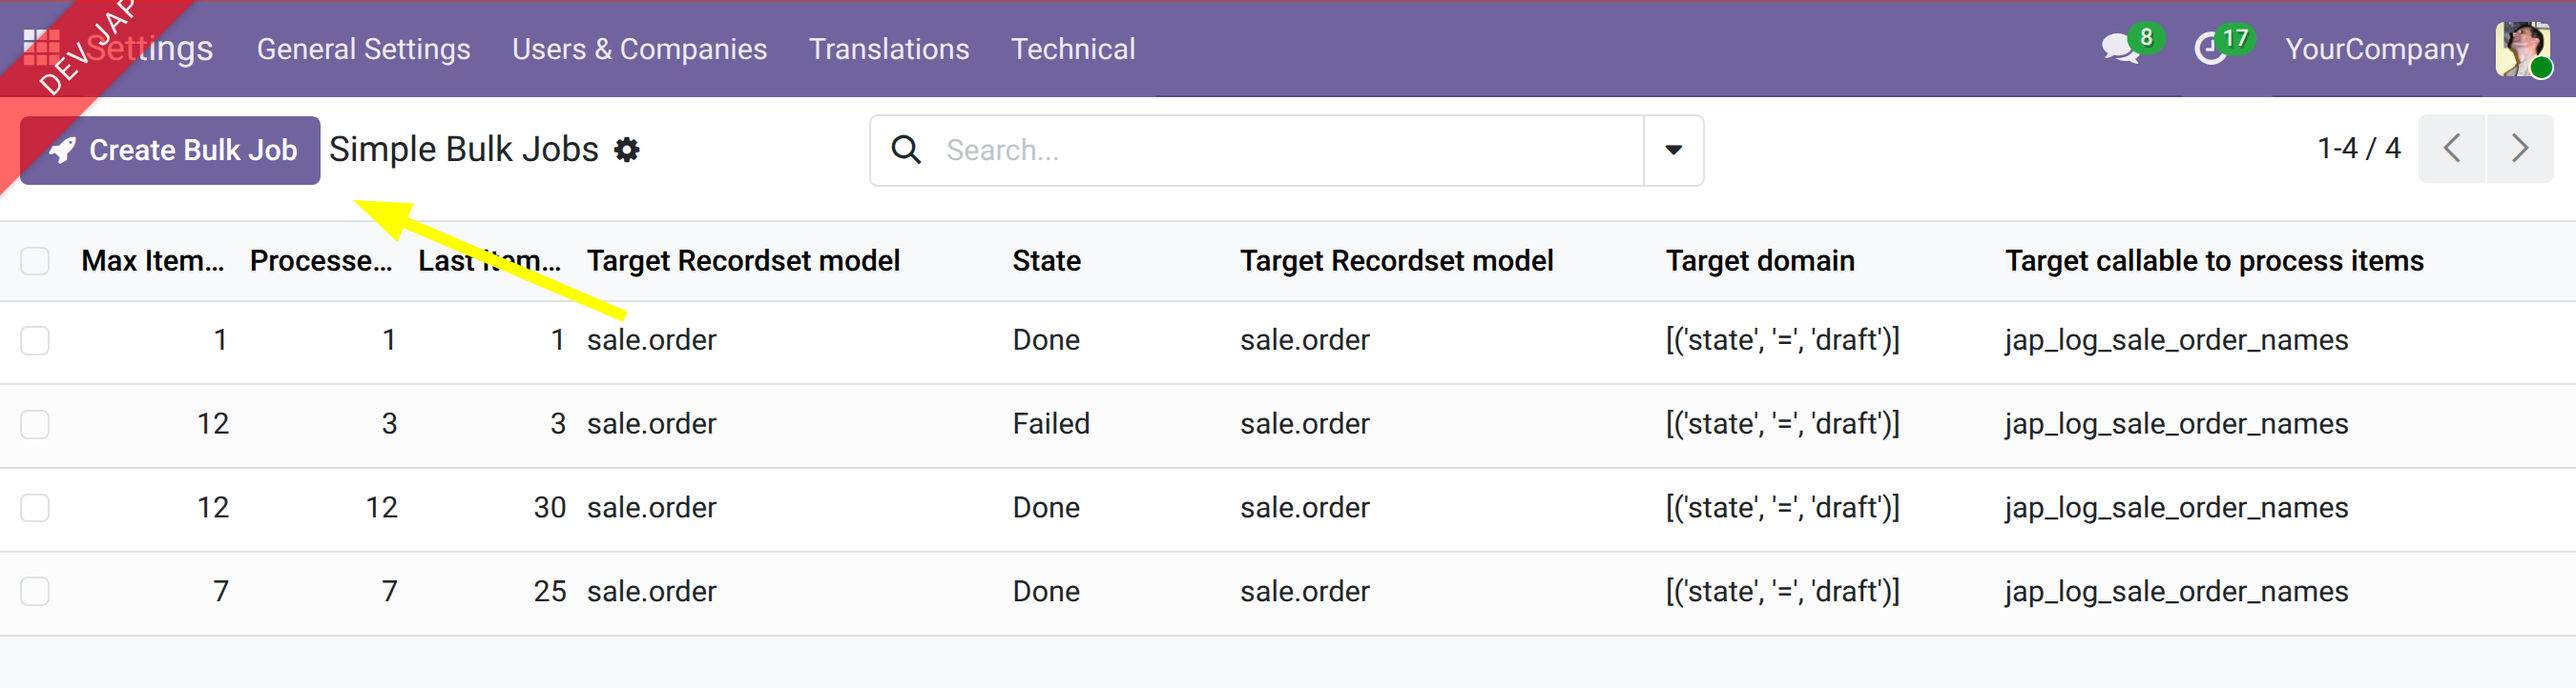
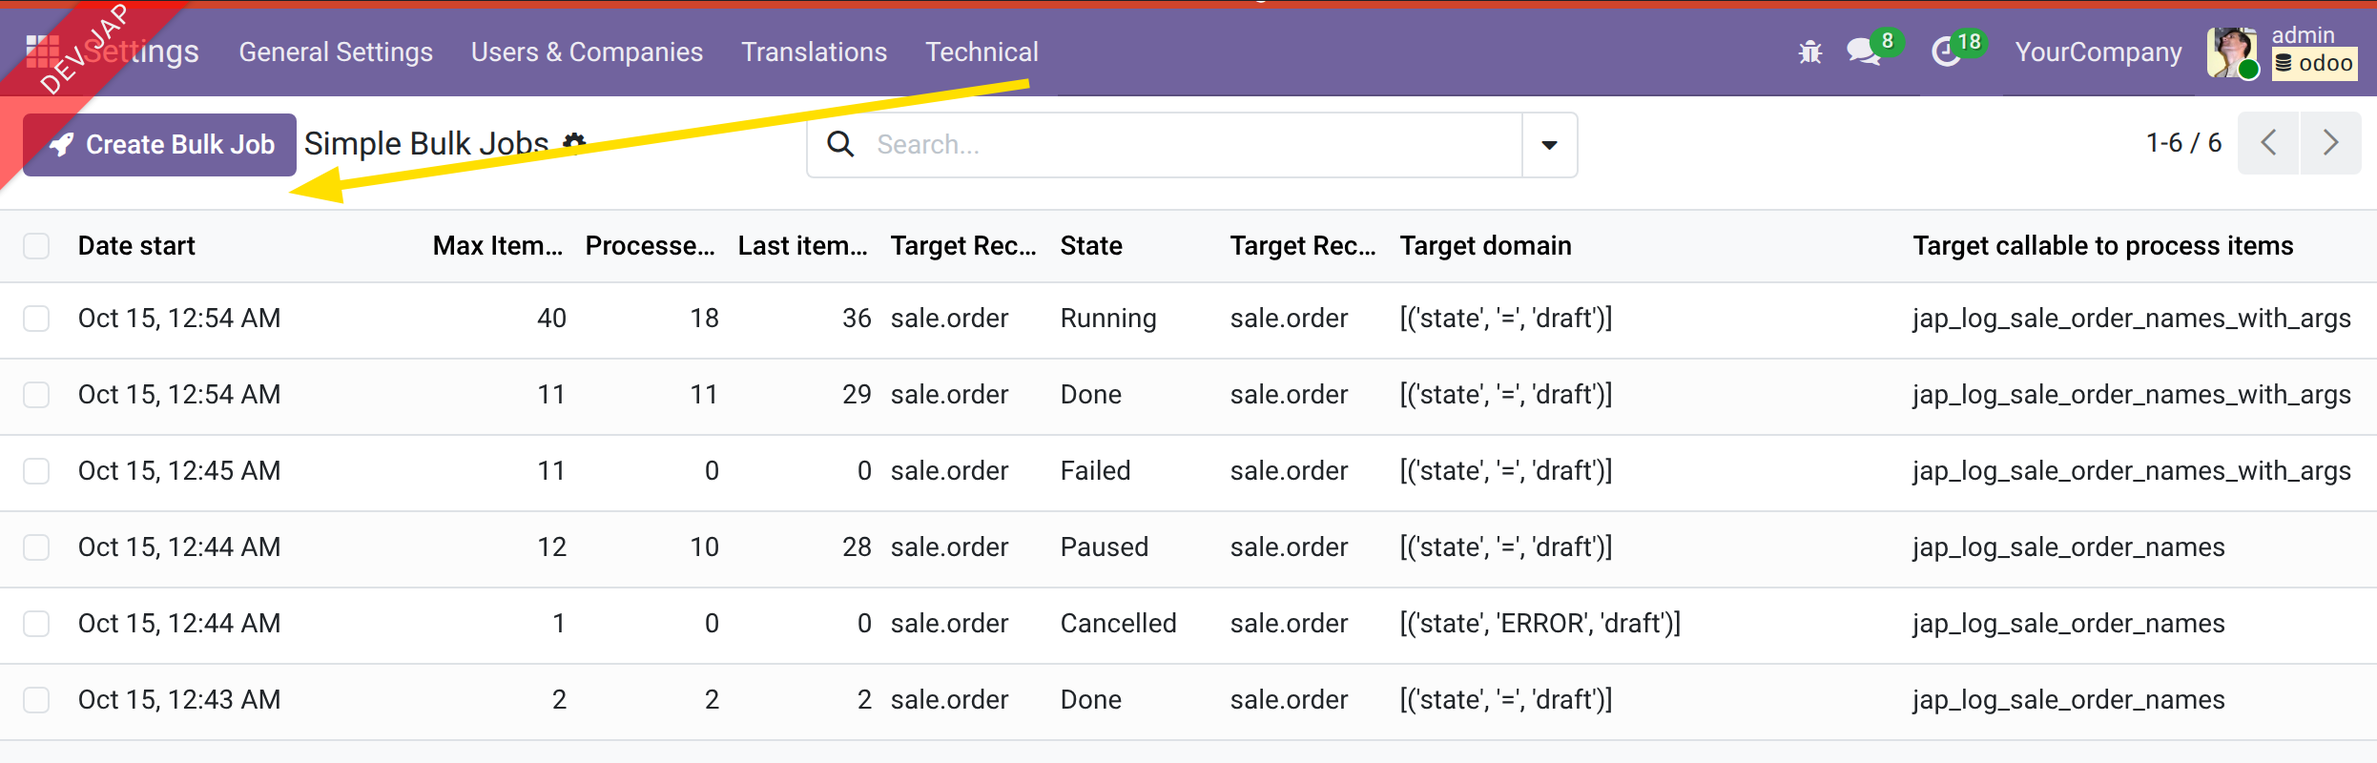
[IMP] jap_simple_bulk_server_job: Several improvements to the simple bulk batch jobs management.

diff --git a/addons/custom/jap_simple_bulk_server_job/models/jap_simple_bulk_server_job.py b/addons/custom/jap_simple_bulk_server_job/models/jap_simple_bulk_server_job.py
@@ -20,6 +20,7 @@ class JapSimpleBulkServerJob(models.Model):
         ('pending', 'Pending'),
         ('running', 'Running'),
         ('done', 'Done'),
+        ('paused', 'Paused'),
         ('cancel', 'Cancelled'),
         ('failed', 'Failed'),
         ],
@@ -36,15 +37,28 @@ class JapSimpleBulkServerJob(models.Model):
         string='Target Recordset model', required=True)
     target_domain = fields.Char(
         string='Target domain', required=True)
+    target_context = fields.Char(
+        string='Target context to add to the target recordset',
+        help="Target context to add to the target recordset")
     target_process_items_func = fields.Char(
         string='Target callable to process items', required=True,
         help="The target callable must be a regular recordset method. "
-             "If you need to call an @api.model method, you can wrap it "
-             "in a regular recordset method. "
              "Warning: retrying a failed job by setting its state back "
              "to 'running' relies on the target method not manually "
              "committing database changes. Manual commits can prevent "
              "the failed batch from being fully rolled back.")
+    target_process_func_args = fields.Char(
+        string='Target args for the callable func',
+        help="Positional arguments to pass to the target function method.")
+    target_process_func_kwargs = fields.Char(
+        string='Target kwargs for the callable func',
+        help="Keyword arguments to pass to the target function method.")
+    date_start = fields.Datetime(
+        string='Date start', index=True, readonly=True, copy=False)
+    date_done = fields.Datetime(
+        string='Date done', index=True, readonly=True, copy=False)
+    date_last_failed = fields.Datetime(
+        string='Date last failed', index=True, readonly=True, copy=False)
     active = fields.Boolean(default=True)
 
     @api.constrains('max_items_to_process')
@@ -60,11 +74,21 @@ class JapSimpleBulkServerJob(models.Model):
 
     def action_cancel(self):
         if self.filtered(
-                lambda job: job.state in ('done', 'cancel', 'failed')):
-            raise UserError("User Error: Cannot cancel jobs in the following "
-                            "states: 'done', 'cancel', 'failed'.")
+                lambda job: job.state in ('done', 'cancel')):
+            raise UserError(
+                "User Error: Cannot cancel jobs in the following "
+                "states: 'done', 'cancel'.")
 
         return self.write({'state': 'cancel'})
+
+    def action_pause(self):
+        if self.filtered(
+                lambda job: job.state in ('done', 'paused', 'cancel', 'failed')):
+            raise UserError(
+                "User Error: Cannot set jobs state to 'running' if they are in "
+                "the following states: 'done', 'paused', 'cancel', 'failed'.")
+
+        return self.write({'state': 'paused'})
 
     def action_running(self):
         if self.filtered(
@@ -73,13 +97,32 @@ class JapSimpleBulkServerJob(models.Model):
                 "User Error: Cannot set jobs state to 'running' if they are in "
                 "the following states: 'done', 'pending', 'running'.")
 
+        if self._get_current_items_bulk_processing_job():
+            raise UserError(
+                "Cannot set this job as 'running' "
+                "because another job is already 'pending' or 'running'.")
+
         return self.write({'state': 'running'})
+
+    def action_failed(self):
+        self.state = 'failed'
+        self.date_last_failed = fields.Datetime.now()
+
+    def action_done(self):
+        self.state = 'done'
+        if not self.date_done:
+            self.date_done = fields.Datetime.now()
 
     def _process_job_batch_items(self, items):
         """Processes a batch and update its progress checkpoint.
         Transaction management is handled by _run_items_processing().
         """
         self.ensure_one()
+
+        # Add additional context if set
+        ctx_to_add = safe_eval(self.target_context or '{}')
+        if ctx_to_add:
+            items = items.with_context(ctx_to_add)
 
         process_items_func = getattr(
             items, self.target_process_items_func, None)
@@ -89,21 +132,25 @@ class JapSimpleBulkServerJob(models.Model):
                 _("Method '%s' not found or not callable on model '%s'.")
                 % (self.target_process_items_func, self.target_recordset_model))
 
+        # Get arguments to pass to the configured recordset method
+        func_args = safe_eval(self.target_process_func_args or '[]')
+        func_kwargs = safe_eval(self.target_process_func_kwargs or '{}')
+
         # Execute the configured recordset method
-        process_items_func()
+        process_items_func(*func_args, **func_kwargs)
 
         # Update progress only after successful business processing
         self.processed_items_count += len(items)
         self.last_item_id = items[-1].id
 
         if self.processed_items_count >= self.max_items_to_process:
-            self.state = 'done'
+            self.action_done()
 
     def _get_domain_for_items_to_process(self):
         error_msg = ''
         try:
             domain = [('id', '>', self.last_item_id)]
-            domain.extend(safe_eval(self.target_domain))
+            domain.extend(safe_eval(self.target_domain or '[]'))
         except Exception as e:
             _logger.exception(
                 "Error getting the domain for the items to process")
@@ -116,17 +163,20 @@ class JapSimpleBulkServerJob(models.Model):
         """Runs one batch. Is intended to be executed by a cron."""
         self.ensure_one()
 
-        if self.state in ('done', 'failed'):
+        if self.state in ('done', 'paused', 'cancel', 'failed'):
             return
 
+        if not self.date_start:
+            self.date_start = fields.Datetime.now()
+
         if not self.target_domain:
-            self.state = 'done'
+            self.action_done()
             return
 
         domain, error_msg = self._get_domain_for_items_to_process()
 
         if error_msg:
-            self.state = 'failed'
+            self.action_failed()
             self.error_message = _(
                 "Error getting the domain for items to process.\n%s"
                 ) % error_msg
@@ -135,7 +185,7 @@ class JapSimpleBulkServerJob(models.Model):
         remaining = self.max_items_to_process - self.processed_items_count
 
         if remaining <= 0:
-            self.state = 'done'
+            self.action_done()
             return
 
         try:
@@ -155,7 +205,7 @@ class JapSimpleBulkServerJob(models.Model):
                 order='id')
 
             if not items:
-                self.state = 'done'
+                self.action_done()
                 return
 
             _logger.info(
@@ -175,7 +225,7 @@ class JapSimpleBulkServerJob(models.Model):
             # The savepoint has rolled back the failed batch.
             # Record the failure outside the savepoint so it can
             # be committed by Odoo with the outer cron transaction.
-            self.state = 'failed'
+            self.action_failed()
             self.error_message = _("Error processing items.\n%s") % str(e)
 
     @api.model
@@ -186,7 +236,6 @@ class JapSimpleBulkServerJob(models.Model):
         """
         return self.search([
             ('state', 'in', ['pending', 'running']),
-            ('active', '=', True),
             ], limit=1, order='id')
 
     @api.model

diff --git a/addons/custom/jap_simple_bulk_server_job/wizard/jap_simple_bulk_server_job_wizard.py b/addons/custom/jap_simple_bulk_server_job/wizard/jap_simple_bulk_server_job_wizard.py
@@ -19,15 +19,26 @@ class JapSimpleBulkServerJobWizard(models.TransientModel):
         string='Target Recordset model', required=True)
     target_domain = fields.Char(
         string='Target domain', required=True)
+    target_context = fields.Char(
+        string='Target context to add to the target recordset',
+        help="Target context to add to the target recordset")
     target_process_items_func = fields.Char(
         string='Target callable to process items', required=True,
         help="The target callable must be a regular recordset method. "
-             "If you need to call an @api.model method, you can wrap it "
-             "in a regular recordset method. "
              "Warning: retrying a failed job by setting its state back "
              "to 'running' relies on the target method not manually "
              "committing database changes. Manual commits can prevent "
              "the failed batch from being fully rolled back.")
+    target_process_func_args = fields.Char(
+        string='Target args for the callable func',
+        help="Positional arguments to pass to the target function method.")
+    target_process_func_kwargs = fields.Char(
+        string='Target kwargs for the callable func',
+        help="Keyword arguments to pass to the target function method.")
+    is_do_not_save_values = fields.Boolean(
+        string="Do not save values", default=False,
+        help="If checked, the fields changed will not be saved for later recovery.")
+
 
     @api.model
     def default_get(self, fields_list):
@@ -37,7 +48,10 @@ class JapSimpleBulkServerJobWizard(models.TransientModel):
         config_env = self.env.ref('jap_addons_config.jap_addons_config_main')
         res['target_recordset_model'] = config_env.bulk_job_target_recordset_model
         res['target_domain'] = config_env.bulk_job_target_domain
+        res['target_context'] = config_env.bulk_job_target_context
         res['target_process_items_func'] = config_env.bulk_job_target_process_items_func
+        res['target_process_func_args'] = config_env.bulk_job_target_process_func_args
+        res['target_process_func_kwargs'] = config_env.bulk_job_target_process_func_kwargs
 
         return res
 
@@ -56,24 +70,31 @@ class JapSimpleBulkServerJobWizard(models.TransientModel):
         config_env = self.env.ref('jap_addons_config.jap_addons_config_main')
         config_env.bulk_job_target_recordset_model = self.target_recordset_model
         config_env.bulk_job_target_domain = self.target_domain
+        config_env.bulk_job_target_context = self.target_context
         config_env.bulk_job_target_process_items_func = self.target_process_items_func
+        config_env.bulk_job_target_process_func_args = self.target_process_func_args
+        config_env.bulk_job_target_process_func_kwargs = self.target_process_func_kwargs
 
     def process_items_bulk(self):
         self.ensure_one()
 
-        self._save_target_fields()
+        if not self.is_do_not_save_values:
+            self._save_target_fields()
 
         if self.env['jap.simple.bulk.server.job'] \
                 ._get_current_items_bulk_processing_job():
             raise UserError(
                 "Cannot create a new bulk process job "
-                "because another job is already active.")
+                "because another job is already 'pending' or 'running'.")
 
         job = self.env['jap.simple.bulk.server.job'].create({
             'max_items_to_process': self.max_items_to_process,
             'target_recordset_model': self.target_recordset_model,
             'target_domain': self.target_domain,
+            'target_context': self.target_context,
             'target_process_items_func': self.target_process_items_func,
+            'target_process_func_args': self.target_process_func_args,
+            'target_process_func_kwargs': self.target_process_func_kwargs,
             })
         cron = self.env.ref(
             'jap_simple_bulk_server_job.ir_cron_jap_simple_bulk_server_job')

diff --git a/addons/custom/jap_simple_bulk_server_job/models/jap_addons_config.py b/addons/custom/jap_simple_bulk_server_job/models/jap_addons_config.py
@@ -2,6 +2,7 @@
 from odoo import api, fields, models
 from odoo.exceptions import UserError
 
+BATCH_SIZE_DEFAULT = 10
 MAX_BATCH_SIZE = 20
 
 
@@ -9,16 +10,25 @@ class JapAddonsConfig(models.Model):
     _inherit = 'jap.addons.config'
 
     bulk_server_job_batch_size = fields.Integer(
-        'Bulk server job batch size', default=MAX_BATCH_SIZE,
+        'Bulk server job batch size', default=BATCH_SIZE_DEFAULT,
         required=True, copy=False,
-        help="Bulk server job batch size "
-             "in the jap.bulk.server.job.job model")
+        help="Bulk server job batch size to use "
+             "in the jap.simple.bulk.server.job model")
     bulk_job_target_recordset_model = fields.Char(
-        string='Target Recordset model', required=True)
+        string='Target Recordset model')
     bulk_job_target_domain = fields.Char(
-        string='Target domain', required=True)
+        string='Target domain')
+    bulk_job_target_context = fields.Char(
+        string='Target context to add to the target recordset',
+        help="Target context to add to the target recordset")
     bulk_job_target_process_items_func = fields.Char(
-        string='Target callable to process items', required=True)
+        string='Target callable to process items')
+    bulk_job_target_process_func_args = fields.Char(
+        string='Target args for the callable func',
+        help="Positional arguments to pass to the target function method.")
+    bulk_job_target_process_func_kwargs = fields.Char(
+        string='Target kwargs for the callable func',
+        help="Keyword arguments to pass to the target function method.")
 
     @api.onchange('bulk_server_job_batch_size')
     def _onchange_bulk_server_job_batch_size(self):

diff --git a/addons/custom/jap_simple_bulk_server_job/__manifest__.py b/addons/custom/jap_simple_bulk_server_job/__manifest__.py
@@ -3,7 +3,7 @@
 {
     'name': 'JAP Simple Bulk Server Job',
     'summary': "JAP Simple Bulk Server Job",
-    'version': '19.0.1.1.0',
+    'version': '19.0.1.1.1',
     'description': """
 JAP Simple Bulk Server Job
 ==========================

diff --git a/extras/releases_history.md b/extras/releases_history.md
@@ -1,5 +1,17 @@
 # Release History
 
+## v19.1.1.1
+
+### Features upgraded for Odoo 19.0
+
+* Several improvements to this addon:
+  * jap_simple_bulk_server_job
+
+* Minor improvements to this addon:
+  * jap_sale
+
+<br>
+
 ## v19.1.1.0
 
 ### Features added and upgraded for Odoo 19.0
